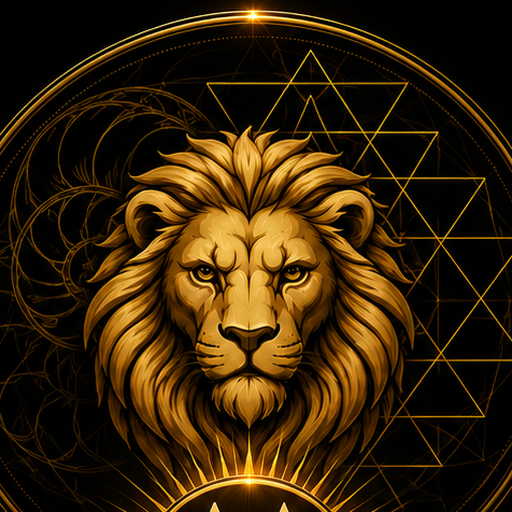
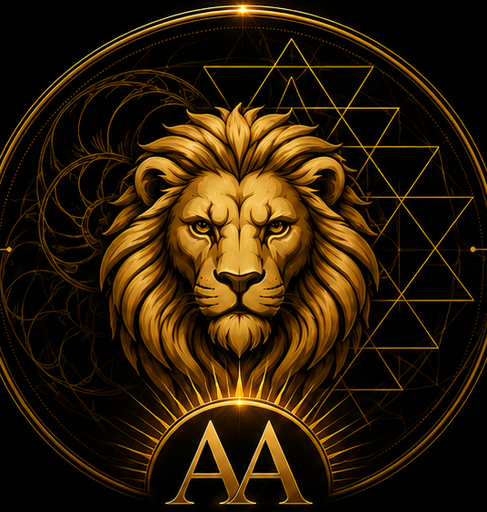
Path A lion emblem

diff --git a/components/AACapitalApp.tsx b/components/AACapitalApp.tsx
@@ -2850,10 +2850,10 @@ setMarketFetched(true);
       {/* ── NAV ── */}
       <div style={{background:"#FFFFFF",borderBottom:"1px solid #F0EDE8",padding:"0 16px",display:"flex",alignItems:"center",gap:12,height:64,position:"sticky",top:0,zIndex:300,overflow:"visible"}}>
         <div style={{display:"flex",alignItems:"center",gap:8}}>
-          <img src="/aa-logo-emblem.png" alt="AA Capital" style={{width:46,height:46,borderRadius:11,objectFit:"cover"}} />
+          <img src="/aa-logo-emblem.png" alt="AA Capital" style={{height:58,width:"auto",objectFit:"contain",borderRadius:12}} />
           <div style={{display:"flex",flexDirection:"column",justifyContent:"center",lineHeight:1.14,marginLeft:3}}>
-            <div style={{fontFamily:"'Sora',sans-serif",fontWeight:800,fontSize:18,color:"#0F1B2D",letterSpacing:"-0.3px"}}>AACapital</div>
-            <div style={{fontFamily:"'IBM Plex Mono',monospace",fontSize:11,color:"#B8860B",letterSpacing:"1.4px",fontWeight:600}}>WHERE MARKETS MAKE SENSE.</div>
+            <div style={{fontFamily:"'Sora',sans-serif",fontWeight:800,fontSize:20,color:"#0F1B2D",letterSpacing:"-0.3px"}}>AACapital</div>
+            <div style={{fontFamily:"'IBM Plex Mono',monospace",fontSize:12,color:"#B8860B",letterSpacing:"1.6px",fontWeight:600}}>WHERE MARKETS MAKE SENSE.</div>
           </div>
         </div>
         <div style={{flex:1}}/>

diff --git a/components/ipo/IpoCommandCenter.tsx b/components/ipo/IpoCommandCenter.tsx
@@ -262,9 +262,8 @@ export function IpoCommandCenter({ simple = false }: { simple?: boolean }) {
         <div style={{ padding: "16px 16px 0", marginBottom: 14 }}>
           <div style={{ display: "flex", justifyContent: "space-between", alignItems: "flex-start" }}>
             <div>
-              <div style={{ display: "flex", alignItems: "center", gap: 10 }}>
-                <img src="/aa-logo-emblem.png" alt="AA Capital"
-                  style={{ height: 38, width: 38, borderRadius: 9, objectFit: "cover" }} />
+              <div style={{ display: "flex", alignItems: "center", gap: 8 }}>
+                <Zap size={18} color={C.purple} />
                 <div style={{ fontSize: 20, fontWeight: 800, color: C.text }}>
                   {simple ? "IPO decisions" : "IPO command center"}
                 </div>